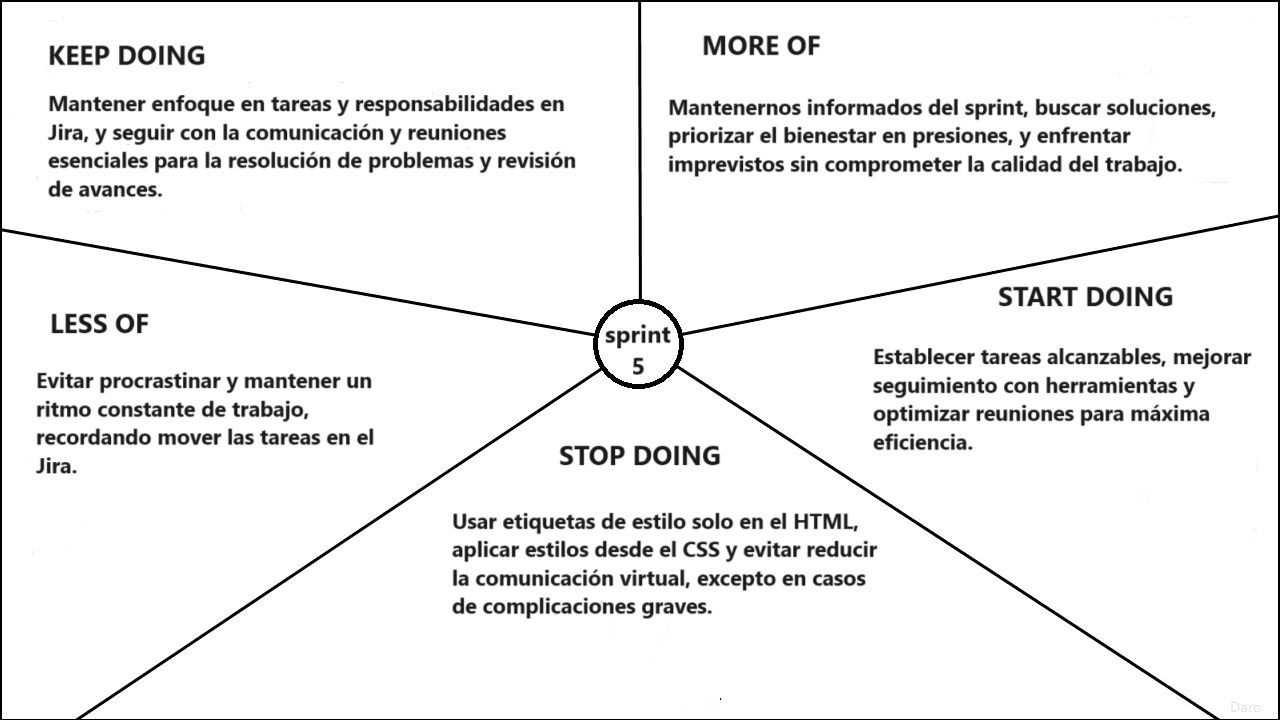
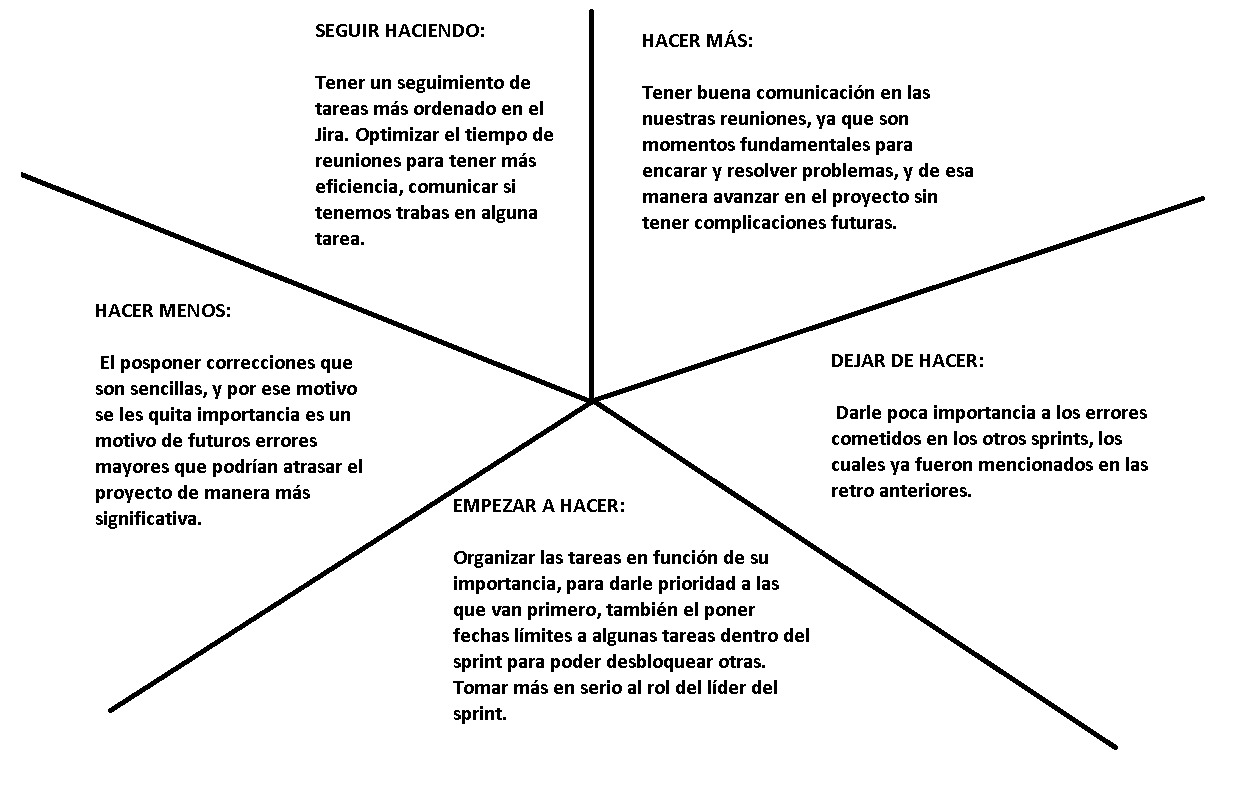
agregando retro 5

diff --git a/retro.md b/retro.md
@@ -65,11 +65,11 @@ LESS OF: Procrastinar y, con ello, comprometer el proyecto y al resto del equipo
 
 
 
-## Retrospectiva, SPRINT 5
+## Retrospectiva, SPRINT 4
 
-En nuestra quinta retrospectiva, basados en nuestro último sprint y nuevas ideas, decidimos:
+En nuestra cuarta retrospectiva, basados en nuestro último sprint y nuevas ideas, decidimos:
 
-![starfish retrospective](./avalanna/public/img/starfishRetrospective5.png)
+![starfish retrospective](./avalanna/public/img/starfishRetrospective4.png)
 
 KEEP DOING: Mantendremos el enfoque en la división de tareas acordadas, asegurando las responsabilidades asignadas. Esta práctica se reflejará en el tablero del Jira, donde solo aquellos miembros que hayan completado tareas serán designados como responsables.Continuaremos con la misma práctica de comunicación y reuniones, ya que son elementos fundamentales para la resolución de problemas y la revisión de los avances del proyecto.
 
@@ -80,3 +80,23 @@ START DOING: Establecer las tareas especificadas y alcanzables al plazo justo de
 STOP DOING: Utilizar etiquetas de estilo en el HTML; aplicar estilos únicamente desde el CSS. Intentar no reducir la comunicación virtual, a menos que algún miembro del grupo tenga complicaciones graves.
 
 LESS OF: Postergar tareas sin implementar estrategias para abordar la procrastinación y sin tener un ritmo constante de trabajo. Esto abarca, por ejemplo, olvidarse de mover las tareas en el Jira.
+
+
+
+
+## Retrospectiva, SPRINT 5
+
+![starfish retrospective](./avalanna/public/img/starfishRetrospective5.png)
+
+Quinta retrospectiva referida al sprint 5:
+
+SEGUIR HACIENDO: Tener un seguimiento de tareas más ordenado en el Jira. Optimizar el tiempo de reuniones para tener más eficiencia, comunicar si tenemos trabas en alguna tarea.
+
+HACER MÁS: Tener buena comunicación en las nuestras reuniones, ya que son momentos fundamentales para encarar y resolver problemas, y de esa manera avanzar en el proyecto sin tener complicaciones futuras.
+
+HACER MENOS: El posponer correcciones que son sencillas, y por ese motivo se les quita importancia es un motivo de futuros errores mayores que podrían atrasar el proyecto de manera más significativa.
+
+EMPEZAR A HACER: organizar las tareas en función de su importancia, para darle prioridad a las que van primero, también el poner fechas límites a algunas tareas dentro del sprint para poder desbloquear otras.
+Tomar más en serio al rol del líder del sprint.
+
+DEJAR DE HACER: Darle poca importancia a los errores cometidos en los otros sprints, los cuales ya fueron mencionados en las retro anteriores. 
